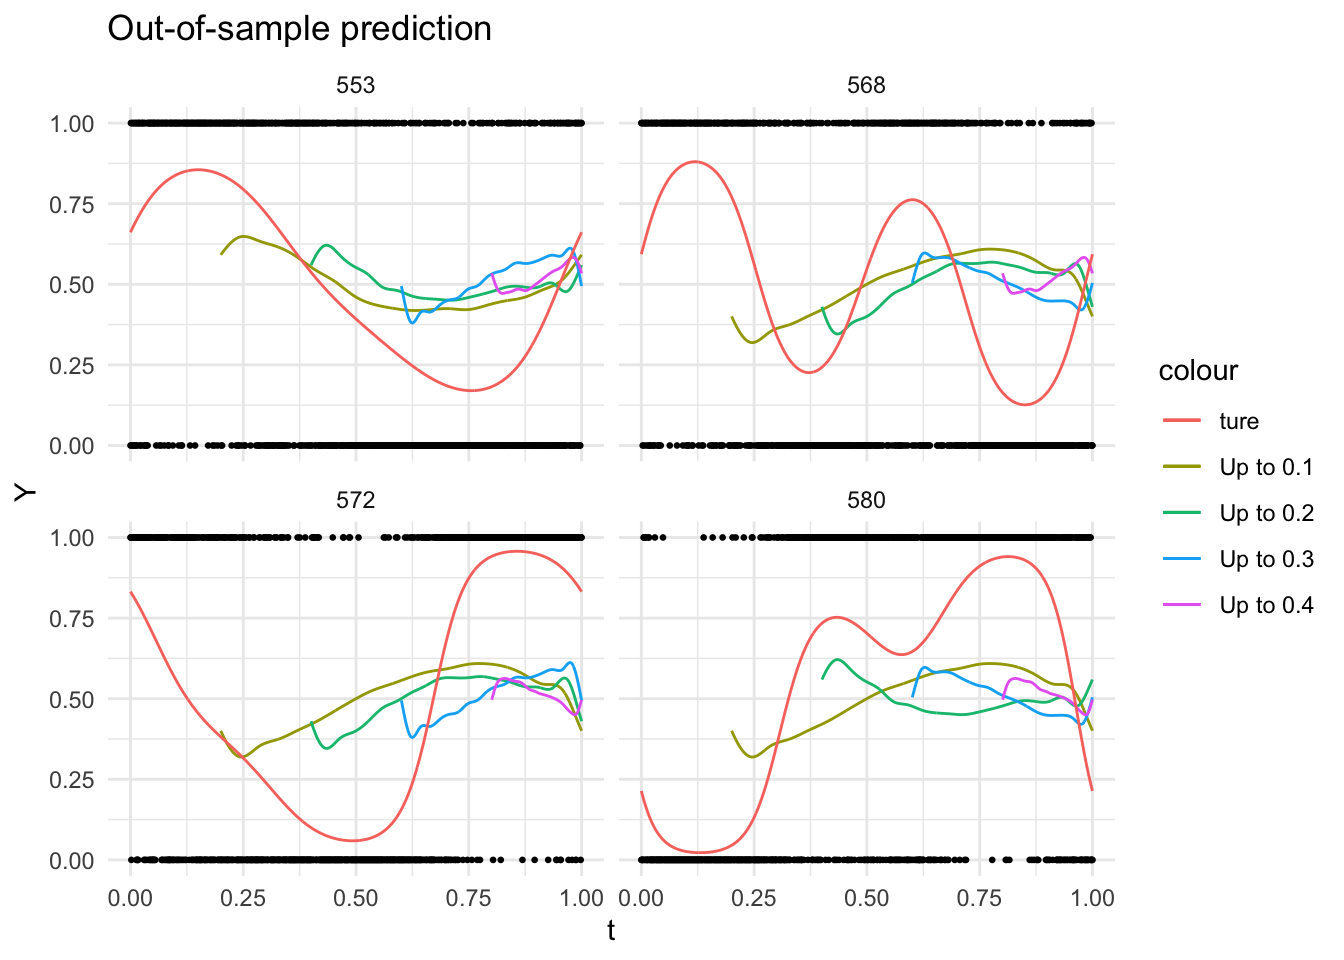
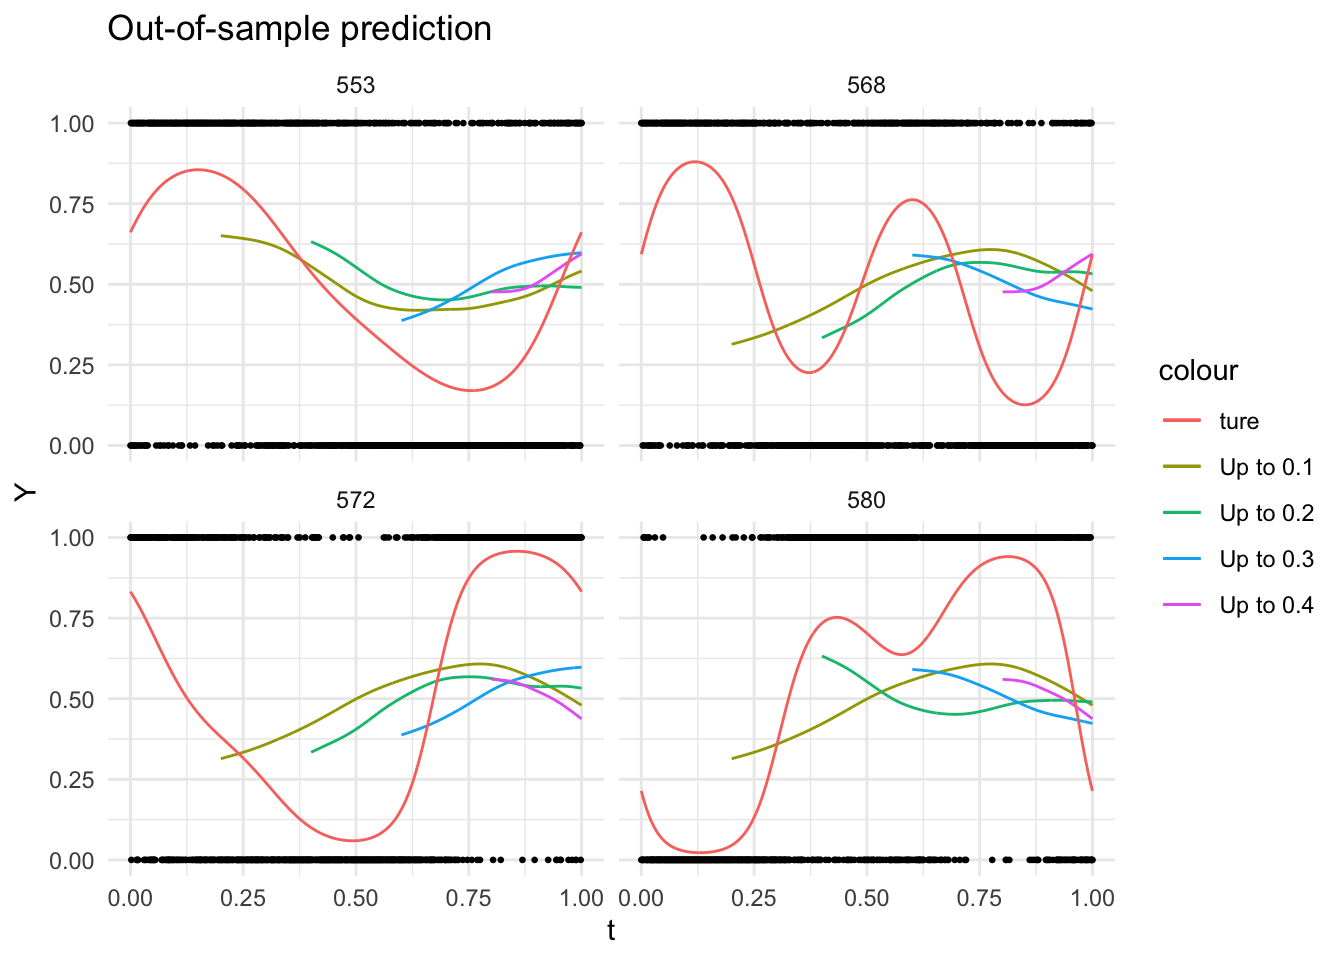
change spline basis for GFOSR model

diff --git a/Docs/manuscript.html b/Docs/manuscript.html
@@ -11,7 +11,7 @@
 
 <meta name="author" content="Ying Jin" />
 
-<meta name="date" content="2024-01-16" />
+<meta name="date" content="2024-01-19" />
 
 <title>Manuscript progress report</title>
 
@@ -254,7 +254,7 @@ div.tocify {
 
 <h1 class="title toc-ignore">Manuscript progress report</h1>
 <h4 class="author">Ying Jin</h4>
-<h4 class="date">2024-01-16</h4>
+<h4 class="date">2024-01-19</h4>
 
 </div>
 
@@ -1781,36 +1781,37 @@ df_pred_tr &lt;- train_df %&gt;% filter(window!=1) %&gt;%
 
 # model
 t1 &lt;- Sys.time()
-fit_gen_fosr &lt;- bam(Y ~ s(t, bs=&quot;cc&quot;, k=20) + 
-                        s(t, bs=&quot;cc&quot;, k=20, by = yl),
+fit_gen_fosr &lt;- bam(Y ~ s(t, bs=&quot;cr&quot;, k=20) + 
+                        s(t, bs=&quot;cr&quot;, k=20, by = yl),
                    family = binomial, data=df_pred_tr, 
                    method = &quot;fREML&quot;,
                    discrete = TRUE)
 t2 &lt;- Sys.time()
 t2-t1</code></pre>
-<pre><code>## Time difference of 0.721633 secs</code></pre>
+<pre><code>## Time difference of 0.79983 secs</code></pre>
 <pre class="r fold-show"><code>summary(fit_gen_fosr)</code></pre>
 <pre><code>## 
 ## Family: binomial 
 ## Link function: logit 
 ## 
 ## Formula:
-## Y ~ s(t, bs = &quot;cc&quot;, k = 20) + s(t, bs = &quot;cc&quot;, k = 20, by = yl)
+## Y ~ s(t, bs = &quot;cr&quot;, k = 20) + s(t, bs = &quot;cr&quot;, k = 20, by = yl)
 ## 
 ## Parametric coefficients:
 ##              Estimate Std. Error z value Pr(&gt;|z|)
-## (Intercept) -0.001258   0.003210  -0.392    0.695
+## (Intercept) -0.001354   0.003211  -0.422    0.673
 ## 
 ## Approximate significance of smooth terms:
-##               edf Ref.df    Chi.sq  p-value    
-## s(t)      0.06865     18 4.200e-02 1.63e-05 ***
-## s(t):yl0 15.69535     18 6.850e+06  &lt; 2e-16 ***
-## s(t):yl1 13.60727     18 3.671e+06  &lt; 2e-16 ***
+##              edf   Ref.df   Chi.sq p-value    
+## s(t)     0.05307  0.06663    0.001   0.977    
+## s(t):yl0 8.54888 10.51629 3904.461  &lt;2e-16 ***
+## s(t):yl1 9.61523 11.75471 2594.975  &lt;2e-16 ***
 ## ---
 ## Signif. codes:  0 &#39;***&#39; 0.001 &#39;**&#39; 0.01 &#39;*&#39; 0.05 &#39;.&#39; 0.1 &#39; &#39; 1
 ## 
-## R-sq.(adj) =  0.029   Deviance explained = 2.11%
-## fREML = 6.3905e+05  Scale est. = 1         n = 400000</code></pre>
+## Rank: 57/58
+## R-sq.(adj) =  0.0296   Deviance explained = 2.15%
+## fREML = 6.3891e+05  Scale est. = 1         n = 400000</code></pre>
 <pre class="r"><code># estimation on the training set
 df_pred_tr$eta_est &lt;- predict(fit_gen_fosr, type = &quot;link&quot;)
 
@@ -1869,8 +1870,8 @@ for(w in 1:4){
     left_join(y_obs_max, by = &quot;id&quot;) %&gt;% 
     mutate_at(vars(Y, yl), as.factor)
   # model 
-  fit_gen_fosr &lt;- bam(Y ~ s(t, bs=&quot;cc&quot;, k=20) + 
-                        s(t, bs=&quot;cc&quot;, k=20, by = yl),
+  fit_gen_fosr &lt;- bam(Y ~ s(t, bs=&quot;cr&quot;, k=20) + 
+                        s(t, bs=&quot;cr&quot;, k=20, by = yl),
                    family = binomial, data=df_pred_tr, 
                    method = &quot;fREML&quot;,
                    discrete = TRUE)
@@ -1923,12 +1924,12 @@ for(w in 1:4){
   df_pred_tr &lt;- train_df %&gt;% filter(window &gt; w) %&gt;%
     left_join(y_obs_max, by = &quot;id&quot;) %&gt;% 
     mutate_at(vars(Y, starts_with(&quot;yl&quot;)), as.factor) 
-  fit_gen_fosr &lt;- bam(Y ~ s(t, bs=&quot;cc&quot;, k=20) + 
-                        s(t, bs=&quot;cc&quot;, k=20, by = yl5)+
-                        s(t, bs=&quot;cc&quot;, k=20, by = yl4)+
-                        s(t, bs=&quot;cc&quot;, k=20, by = yl3)+
-                        s(t, bs=&quot;cc&quot;, k=20, by = yl2)+
-                        s(t, bs=&quot;cc&quot;, k=20, by = yl1),
+  fit_gen_fosr &lt;- bam(Y ~ s(t, bs=&quot;cr&quot;, k=20) + 
+                        s(t, bs=&quot;cr&quot;, k=20, by = yl5)+
+                        s(t, bs=&quot;cr&quot;, k=20, by = yl4)+
+                        s(t, bs=&quot;cr&quot;, k=20, by = yl3)+
+                        s(t, bs=&quot;cr&quot;, k=20, by = yl2)+
+                        s(t, bs=&quot;cr&quot;, k=20, by = yl1),
                    family = binomial, data=df_pred_tr, 
                    method = &quot;fREML&quot;,
                    discrete = TRUE)
@@ -1998,11 +1999,12 @@ tb_ies_l1 &lt;- test_df %&gt;%
 colnames(tb_ies_l1) &lt;- colnames(tb_ies_l5) &lt;- c(&quot;0.2&quot;, &quot;0.4&quot;, &quot;0.6&quot;, &quot;0.8&quot;)</code></pre>
 <pre class="r"><code>data.frame(Window = c(&quot;(0.2,0.4]&quot;, &quot;(0.4,0.6]&quot;, &quot;(0.6,0.8]&quot;, &quot;(0.8, 1.0]&quot;),
            tb_ies_l1, tb_ies_l5, check.names = F) %&gt;%
-  kable(digits = 3, caption = &quot;Integrated squared error&quot;, booktabs = T) %&gt;%
+  kable(digits = 3, caption = &quot;Integrated squared error&quot;, booktabs = T,
+        table.attr = &quot;style = \&quot;color: black;\&quot;&quot;) %&gt;%
   kable_styling(full_width = F) %&gt;% 
   add_header_above(c(&quot; &quot;=1, &quot;L = 1&quot; = 4, &quot;L = 5&quot; = 4)) %&gt;%
   add_header_above(c(&quot; &quot;= 1, &quot;Observation track&quot; = 8))</code></pre>
-<table class="table" style="width: auto !important; margin-left: auto; margin-right: auto;">
+<table style="color: black; width: auto !important; margin-left: auto; margin-right: auto;" class="table">
 <caption>
 Integrated squared error
 </caption>
@@ -2066,7 +2068,7 @@ Window
 (0.2,0.4]
 </td>
 <td style="text-align:right;">
-348.343
+347.027
 </td>
 <td style="text-align:right;">
 </td>
@@ -2075,7 +2077,7 @@ Window
 <td style="text-align:right;">
 </td>
 <td style="text-align:right;">
-306.978
+304.100
 </td>
 <td style="text-align:right;">
 </td>
@@ -2089,20 +2091,20 @@ Window
 (0.4,0.6]
 </td>
 <td style="text-align:right;">
-285.238
+285.249
 </td>
 <td style="text-align:right;">
-252.385
+249.844
 </td>
 <td style="text-align:right;">
 </td>
 <td style="text-align:right;">
 </td>
 <td style="text-align:right;">
-274.415
+274.051
 </td>
 <td style="text-align:right;">
-213.787
+209.148
 </td>
 <td style="text-align:right;">
 </td>
@@ -2114,24 +2116,24 @@ Window
 (0.6,0.8]
 </td>
 <td style="text-align:right;">
-278.837
+278.855
 </td>
 <td style="text-align:right;">
-308.303
+308.348
 </td>
 <td style="text-align:right;">
-298.876
+297.257
 </td>
 <td style="text-align:right;">
 </td>
 <td style="text-align:right;">
-241.906
+241.598
 </td>
 <td style="text-align:right;">
-291.673
+291.369
 </td>
 <td style="text-align:right;">
-241.131
+236.536
 </td>
 <td style="text-align:right;">
 </td>
@@ -2141,28 +2143,28 @@ Window
 (0.8, 1.0]
 </td>
 <td style="text-align:right;">
-326.627
+324.049
 </td>
 <td style="text-align:right;">
-342.585
+338.808
 </td>
 <td style="text-align:right;">
-349.281
+348.584
 </td>
 <td style="text-align:right;">
-347.882
+346.941
 </td>
 <td style="text-align:right;">
-306.177
+302.110
 </td>
 <td style="text-align:right;">
-311.937
+302.478
 </td>
 <td style="text-align:right;">
-366.169
+365.062
 </td>
 <td style="text-align:right;">
-337.832
+336.012
 </td>
 </tr>
 </tbody>
